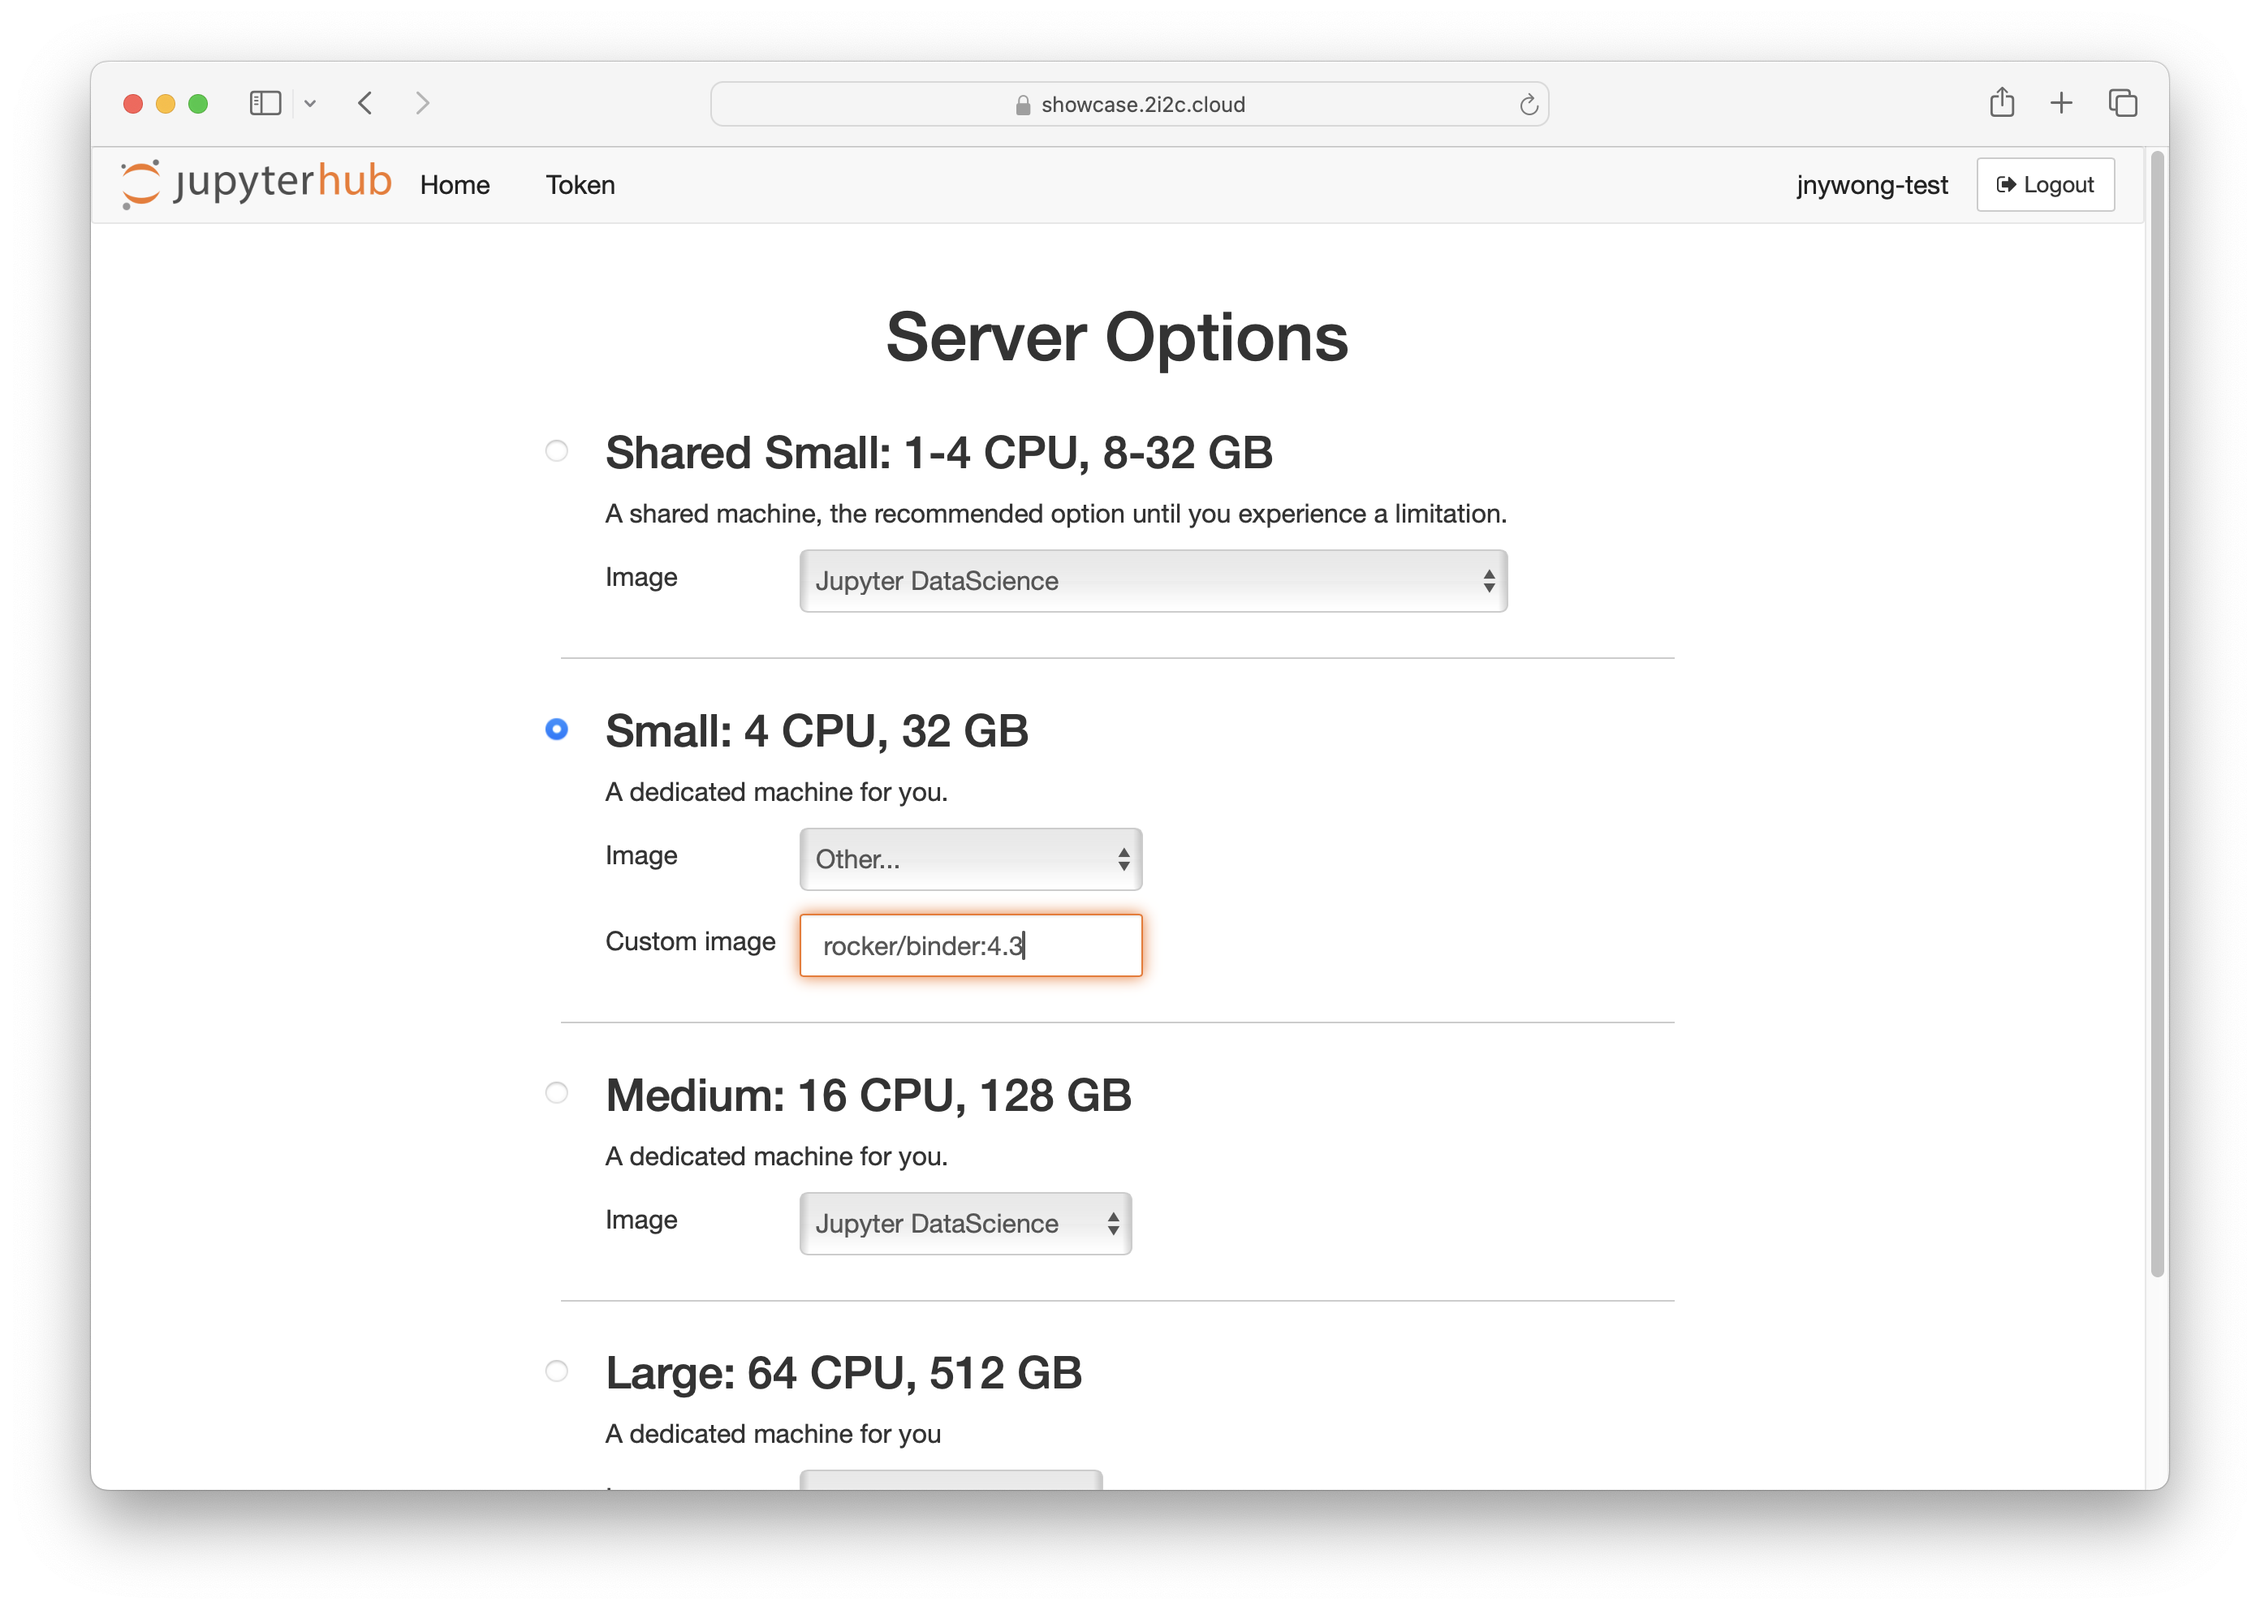
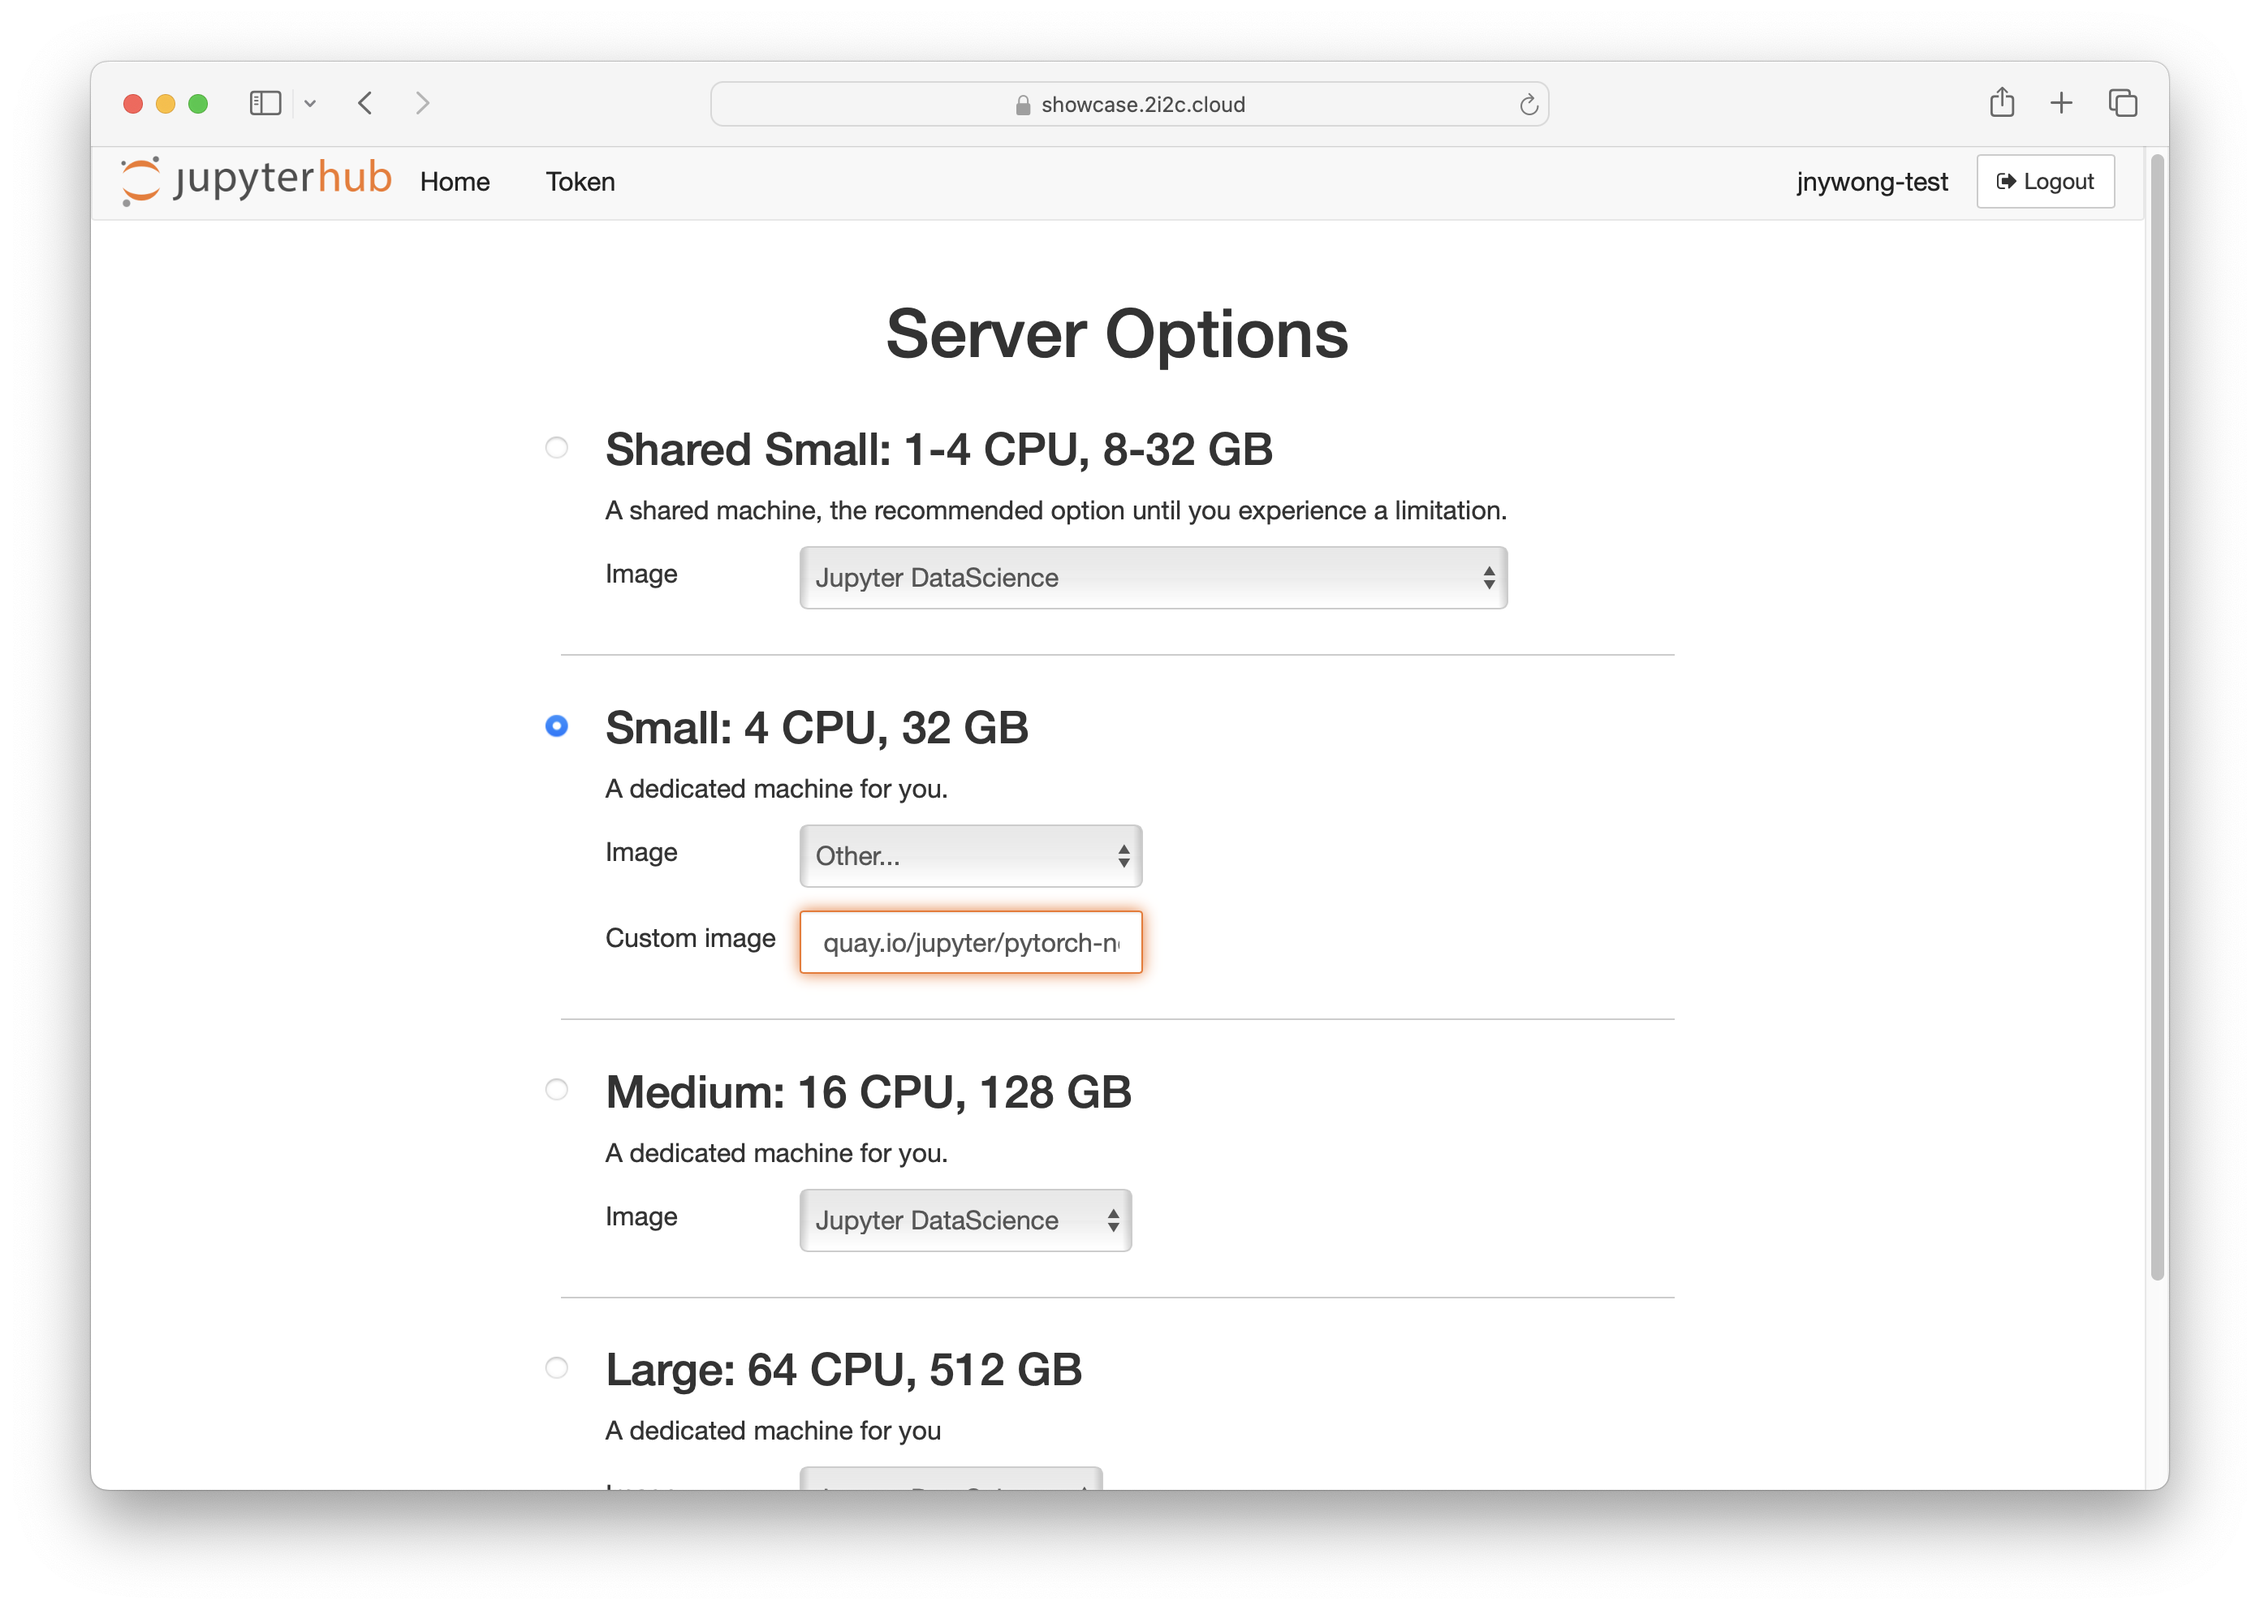
Complete first draft

diff --git a/episodes/manage_images.md b/episodes/manage_images.md
@@ -1,8 +1,8 @@
 (episode-images)=
 # Managing Software Images
 
-teaching: 0
-exercises: 0
+teaching: 30
+exercises: 15
 
 :::::{card} 
 OVERVIEW
@@ -14,16 +14,18 @@ OVERVIEW
 :::{grid-item}
 Questions
 
-- TODO 
+- What software environments are available on the hub?
+- How is containerization helpful for my work?
+- Is there a way to customise my software environment?
 
 :::
 
 :::{grid-item}
 Objectives
 
-- explain the value of reproducibility with containerized software environments
-- select pre-configured JupyterLab or RStudio containers for their hub
-- pull a custom container for their hub
+- Explain the value of reproducibility with containerized software environments
+- Select pre-configured JupyterLab or RStudio containers for their hub
+- Pull a custom container for their hub
 :::
 
 :::::
@@ -141,14 +143,14 @@ The list of image options presented can vary for different hubs. Hub Champions c
 (episode-images:other)=
 ### Choosing a custom image with the "Other..." option
 
-The "Other..." option allows a user to specify a custom image container to pull into the hub. There are a number of container registries online that host containerized applications, such as Docker Hub, GitHub, Azure, Amazon and Google Container Registries, Red Hat Quay, etc.
+The *Other...* option allows a user to specify a custom image container to pull into the hub. There are a number of container registries online that host containerized applications, such as Docker Hub, GitHub, Azure, Amazon and Google Container Registries, Red Hat Quay, etc.
 
 **Only containers that are compatible with JupyterHub can be pulled into a hub**. To find JupyterHub-compatible containers you can, e.g.
 
 - browse the list of 2i2c-maintained hub images on [Red Hat Quay](https://quay.io/organization/2i2c)
 - take a look at [Jupyter Docker Stacks](https://jupyter-docker-stacks.readthedocs.io/en/latest/using/selecting.html)
 - take a look at the [Rocker Project](https://rocker-project.org/images/) for R Docker containers (note only the `binder` image is JupyterHub-compatible)
-- search Docker Hub for the term "jupyterhub".
+- search Docker Hub for the term "jupyter".
 
 :::{caution}
 Anyone can create a container and publicly share it online, therefore it is important to be cautious about downloading this software onto your machine. A few good indicators to look for are
@@ -167,11 +169,11 @@ An image listed on a container registry may have many different versions associa
 OWNER/IMAGE_NAME:TAG
 ```
 
-If a user wanted to pull the [Rocker binder](https://hub.docker.com/r/rocker/binder/tags) container from Docker Hub, for example, then they could enter `rocker/binder:4.3` into the *Custom image* field.
+For example, if a user wanted to pull the [Jupyter PyTorch notebook](https://jupyter-docker-stacks.readthedocs.io/en/latest/using/selecting.html#jupyter-pytorch-notebook) container, then they would enter `quay.io/jupyter/pytorch-notebook:x86_64-pytorch-2.2.0` into the *Custom image* field.
 
 :::{image} ../media/episodes/manage_images/custom.png
 :width: 100%
-:alt: Screenshot showing where to specify a custom image rocker/binder:4.3 in the server options page on a hub.
+:alt: Screenshot showing where to specify a custom image quay.io/jupyter/pytorch-notebook:x86_64-pytorch-2.2.0 in the server options page on a hub.
 
 :::
 
@@ -211,7 +213,7 @@ Notes on the other answers:
 :::{card} 
 KEY POINTS
 ^^^
-- Images are useful for reproducing software environments across platforms.
+- Images are useful for reproducing software environments across platforms
 - Default containers are available on the hub
 - Additional custom containers can be pulled to the hub if required
 :::
